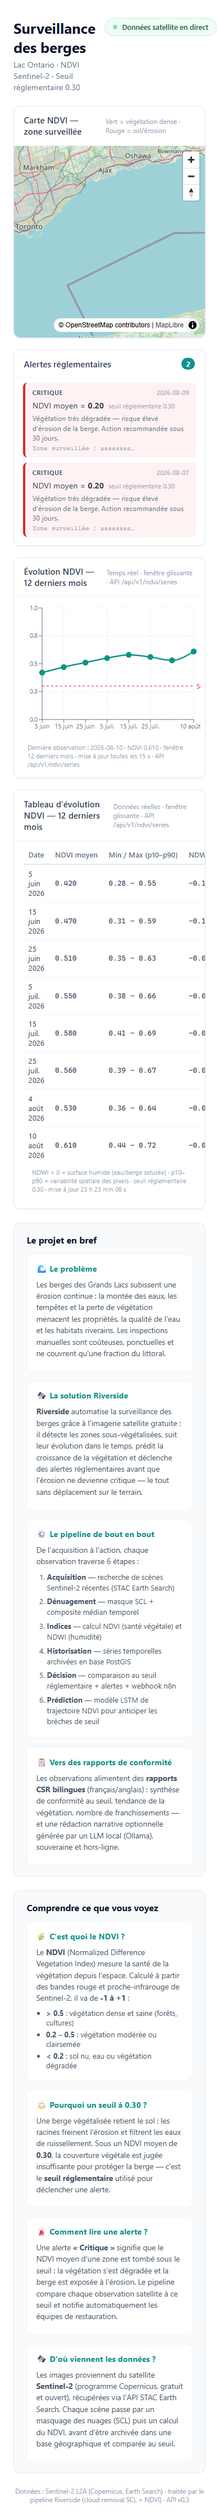
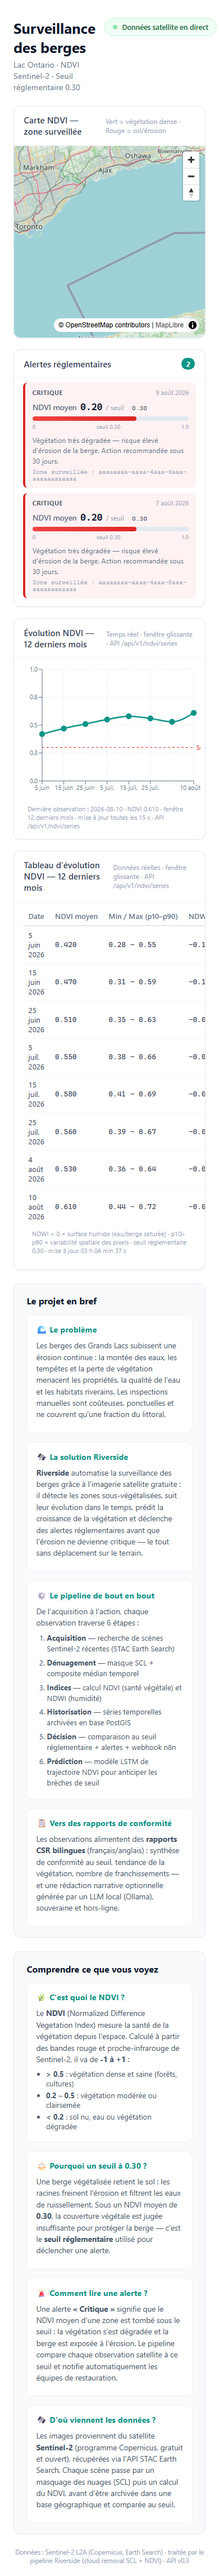
feat(web): alertes au format professionnel — jauge de conformité, métrique alignée, AOI complet
- AlertPanel : jauge visuelle (valeur vs seuil), métrique alignée 'NDVI moyen X / seuil Y', libellés espacés, zone surveillée avec UUID complet
- CSS : styles jauge (gradient par sévérité), étiquettes 0/seuil/1.0, typographie monospace tabulaire
- tests : verify mis à jour (métrique + jauge + AOI complet) — suite Playwright 9/9
- captures : régénérées (alertes pro)

diff --git a/web/components/AlertPanel.tsx b/web/components/AlertPanel.tsx
@@ -12,7 +12,13 @@ const SEVERITY_EXPLAIN: Record<Alert["severity"], string> = {
   info: "Information — pas d'action immédiate.",
 };
 
-/** Panneau des alertes réglementaires ouvertes — pédagogique. */
+/** Pourcentage de la valeur par rapport au seuil (borné 0-100 pour la jauge). */
+function gaugePercent(value: number, threshold: number): number {
+  const pct = (value / threshold) * 100;
+  return Math.max(0, Math.min(100, pct));
+}
+
+/** Panneau des alertes réglementaires — format professionnel. */
 export function AlertPanel({ alerts, error }: { alerts: Alert[]; error: string | null }) {
   if (error !== null) {
     return <p className="empty-state" role="alert">{error}</p>;
@@ -26,22 +32,47 @@ export function AlertPanel({ alerts, error }: { alerts: Alert[]; error: string |
   }
   return (
     <ul className="alert-list">
-      {alerts.map((a) => (
-        <li key={a.id} className={`alert-item alert-${a.severity}`}>
-          <div className="alert-top">
-            <span className="alert-severity">{SEVERITY_LABEL[a.severity]}</span>
-            <time dateTime={a.raised_at}>
-              {new Date(a.raised_at).toLocaleDateString("fr-CA")}
-            </time>
-          </div>
-          <p className="alert-metric">
-            NDVI moyen = <strong>{a.value.toFixed(2)}</strong>
-            <span className="alert-threshold">seuil réglementaire {a.threshold.toFixed(2)}</span>
-          </p>
-          <p className="alert-explain">{SEVERITY_EXPLAIN[a.severity]}</p>
-          <p className="alert-aoi">Zone surveillée : {a.aoi_id.slice(0, 8)}…</p>
-        </li>
-      ))}
+      {alerts.map((a) => {
+        const pct = gaugePercent(a.value, a.threshold);
+        return (
+          <li key={a.id} className={`alert-item alert-${a.severity}`}>
+            <div className="alert-top">
+              <span className="alert-severity">{SEVERITY_LABEL[a.severity]}</span>
+              <time dateTime={a.raised_at}>
+                {new Date(a.raised_at).toLocaleDateString("fr-CA", {
+                  year: "numeric",
+                  month: "short",
+                  day: "numeric",
+                })}
+              </time>
+            </div>
+
+            {/* Métrique principale : valeur vs seuil */}
+            <div className="alert-metric">
+              <div className="alert-metric-row">
+                <span className="alert-label">NDVI moyen</span>
+                <span className="alert-value">{a.value.toFixed(2)}</span>
+                <span className="alert-sep">/ seuil</span>
+                <span className="alert-threshold">{a.threshold.toFixed(2)}</span>
+              </div>
+              <div className="alert-gauge" role="img" aria-label={`${Math.round(pct)} % du seuil`}>
+                <div
+                  className={`alert-gauge-fill alert-gauge-${a.severity}`}
+                  style={{ width: `${pct}%` }}
+                />
+              </div>
+              <div className="alert-gauge-labels">
+                <span>0</span>
+                <span>seuil {a.threshold.toFixed(2)}</span>
+                <span>1.0</span>
+              </div>
+            </div>
+
+            <p className="alert-explain">{SEVERITY_EXPLAIN[a.severity]}</p>
+            <p className="alert-aoi">Zone surveillée : {a.aoi_id}</p>
+          </li>
+        );
+      })}
     </ul>
   );
 }

diff --git a/web/e2e/verify.spec.ts b/web/e2e/verify.spec.ts
@@ -1,24 +1,28 @@
 import { test, expect } from "@playwright/test";
 
-/** Vérification : fenêtre 6 mois, graphique + tableau alignés sur les données réelles. */
-test("les panneaux affichent les 12 derniers mois en temps réel", async ({ page }) => {
+/** Vérification : alertes au format professionnel (jauge + AOI complet). */
+test("les alertes affichent le format professionnel", async ({ page }) => {
   await page.goto("/", { waitUntil: "networkidle" });
   await page.waitForTimeout(3000);
 
-  // Titres avec fenêtre glissante
-  await expect(page.getByRole("heading", { name: "Évolution NDVI — 12 derniers mois", exact: true })).toBeVisible();
-  await expect(page.getByRole("heading", { name: "Tableau d'évolution NDVI — 12 derniers mois" })).toBeVisible();
+  const alertItem = page.locator(".alert-item").first();
+  await expect(alertItem).toBeVisible();
 
-  // Graphique (SVG)
-  await expect(page.locator(".data-row .recharts-wrapper svg")).toHaveCount(1);
+  // Métrique avec séparateur seuil
+  const metric = await alertItem.locator(".alert-metric-row").textContent();
+  expect(metric).toContain("NDVI moyen");
+  expect(metric).toContain("/ seuil");
 
-  // Tableau : 8 lignes (données des 12 derniers mois en base)
-  const rows = await page.locator(".ndvi-table tbody tr").count();
-  expect(rows).toBeGreaterThanOrEqual(7);
+  // Jauge de progression
+  const gauge = alertItem.locator(".alert-gauge-fill");
+  await expect(gauge).toBeVisible();
+  const fillWidth = await gauge.getAttribute("style");
+  expect(fillWidth).toContain("width");
 
-  // Fenêtre indiquée dans la légende du graphique
-  const caption = await page.locator(".chart-caption").first().textContent();
-  expect(caption).toContain("12 derniers mois");
+  // Explication + zone complète (UUID entier)
+  await expect(alertItem.locator(".alert-explain")).toContainText("Végétation très dégradée");
+  const aoi = await alertItem.locator(".alert-aoi").textContent();
+  expect(aoi).toContain("aaaaaaaa-aaaa-4aaa-8aaa-aaaaaaaaaaaa");
 
-  console.log("FENETRE12_OK:", { lignes: rows, caption: caption?.slice(0, 70) });
+  console.log("ALERTES_PRO_OK:", { metrique: metric?.trim().slice(0, 40), jauge: fillWidth?.slice(0, 30) });
 });

diff --git a/web/app/dashboard.css b/web/app/dashboard.css
@@ -357,3 +357,81 @@
   white-space: nowrap;
   border: 0;
 }
+
+/* Alertes — format professionnel (jauge + métrique alignée) */
+.alert-metric {
+  margin-top: 0.5rem;
+}
+
+.alert-metric-row {
+  display: flex;
+  align-items: baseline;
+  gap: 0.4rem;
+  font-size: 0.85rem;
+}
+
+.alert-label {
+  color: #64748b;
+  font-weight: 500;
+}
+
+.alert-value {
+  font-family: ui-monospace, "Cascadia Code", monospace;
+  font-size: 1.05rem;
+  font-weight: 700;
+  color: #0f172a;
+  font-variant-numeric: tabular-nums;
+}
+
+.alert-sep {
+  color: #94a3b8;
+  font-size: 0.75rem;
+}
+
+.alert-threshold {
+  font-family: ui-monospace, monospace;
+  font-weight: 600;
+  color: #475569;
+  font-variant-numeric: tabular-nums;
+}
+
+.alert-gauge {
+  margin-top: 0.45rem;
+  height: 8px;
+  border-radius: 999px;
+  background: #e2e8f0;
+  overflow: hidden;
+}
+
+.alert-gauge-fill {
+  height: 100%;
+  border-radius: 999px;
+  transition: width 0.4s ease;
+}
+
+.alert-gauge-critical { background: linear-gradient(90deg, #ef4444, #dc2626); }
+.alert-gauge-warning { background: linear-gradient(90deg, #f59e0b, #d97706); }
+.alert-gauge-info { background: linear-gradient(90deg, #0ea5e9, #0284c7); }
+
+.alert-gauge-labels {
+  display: flex;
+  justify-content: space-between;
+  margin-top: 0.2rem;
+  font-size: 0.65rem;
+  color: #94a3b8;
+}
+
+.alert-explain {
+  margin: 0.5rem 0 0;
+  font-size: 0.78rem;
+  line-height: 1.45;
+  color: #64748b;
+}
+
+.alert-aoi {
+  margin: 0.35rem 0 0;
+  font-size: 0.68rem;
+  color: #94a3b8;
+  font-family: ui-monospace, monospace;
+  word-break: break-all;
+}
